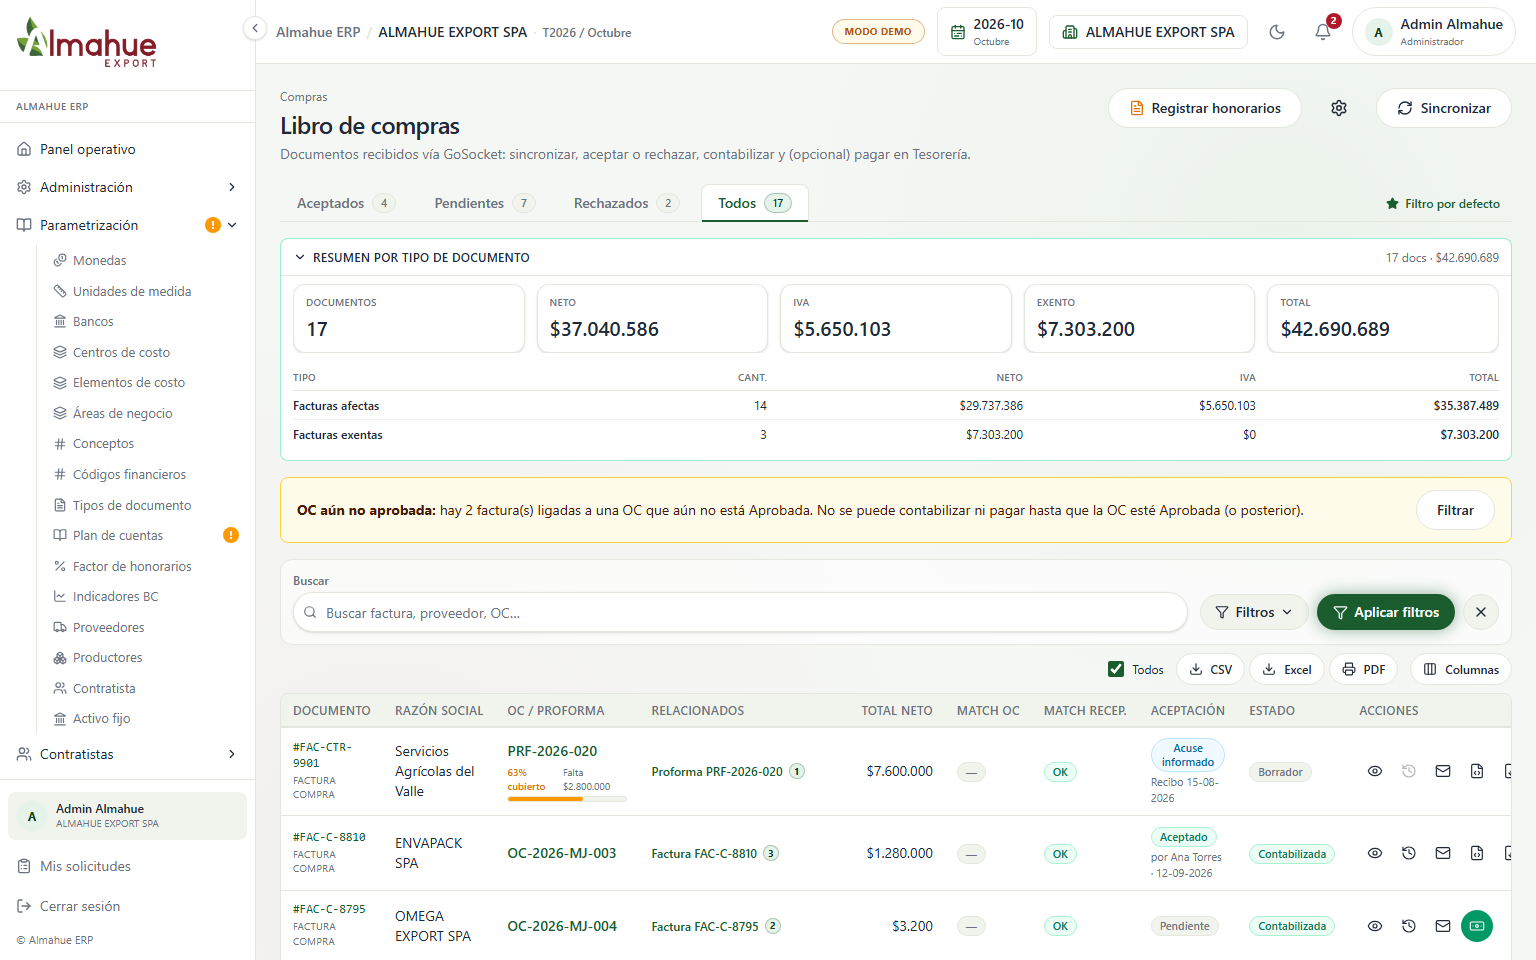
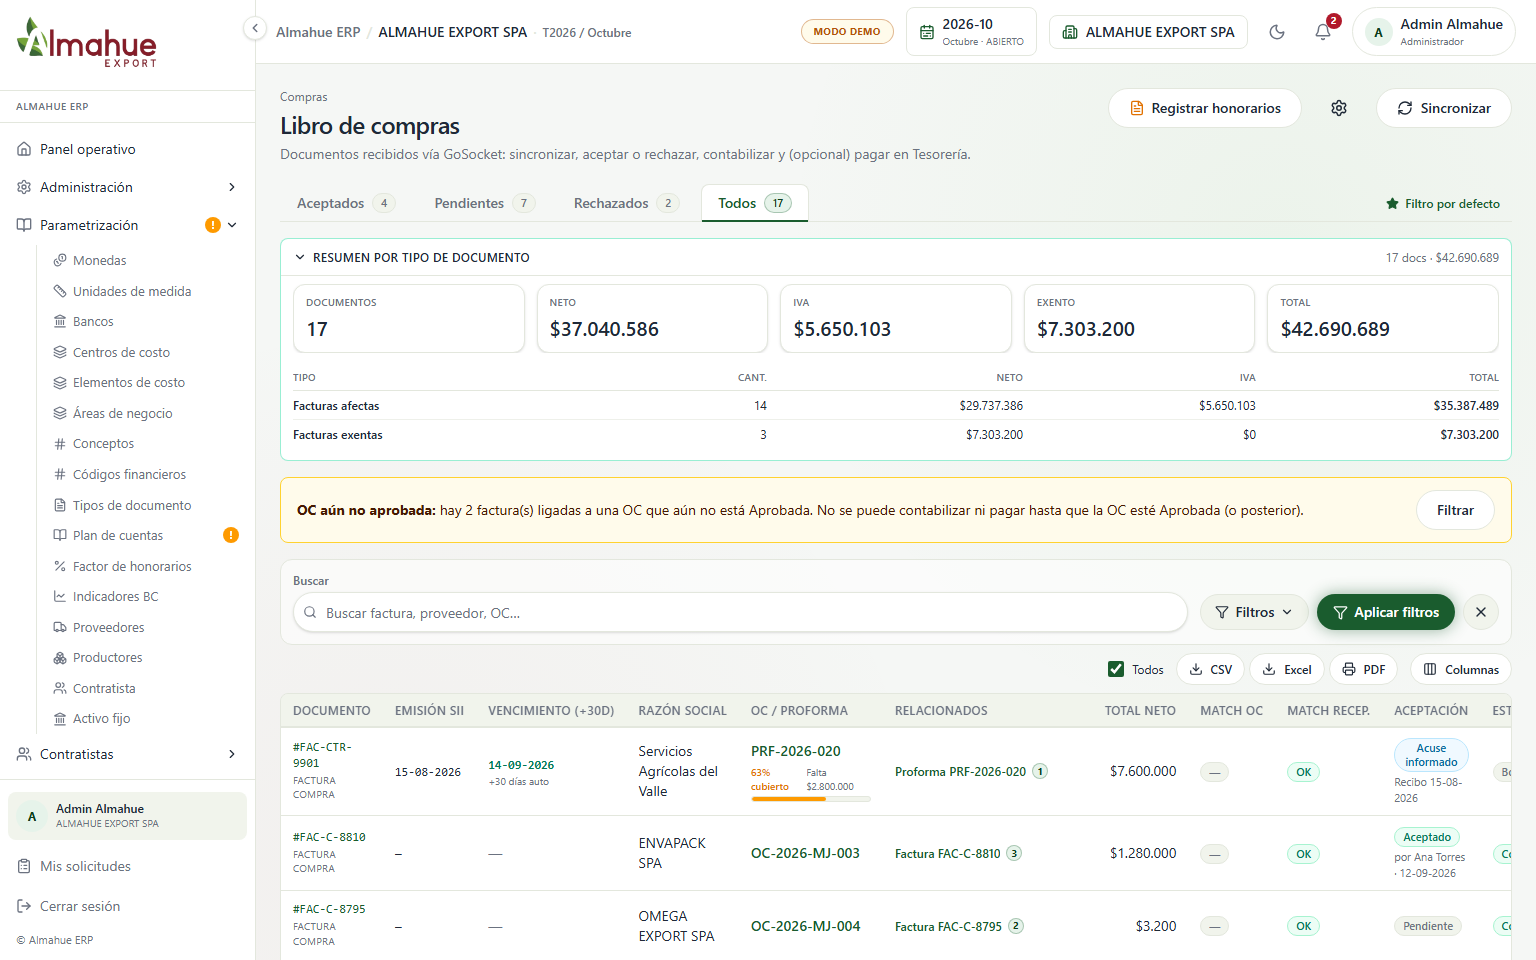
fix(recorrido): actualizar paso 2.9 con columnas Emisión SII y Vencimiento (+30d) en Libro de Compras y reubicar pines

diff --git a/docs/sesiones/compras-mejoras-modulo2-2026-10-30/recorrido.html b/docs/sesiones/compras-mejoras-modulo2-2026-10-30/recorrido.html
@@ -571,8 +571,8 @@
         titulo: "Fecha de Vencimiento Automática (+30 días desde Emisión SII) (Punto 3 MJ)",
         img: "img/step-2-9-compras-libro-vencimientos.png",
         pins: [
-          { x: 55, y: 40, label: "Columna 'Fecha Emisión SII' del documento oficial" },
-          { x: 68, y: 40, label: "Columna 'Vencimiento' calculada a +30 días por defecto" }
+          { x: 28, y: 76, label: "Columna 'Emisión SII' del documento oficial registrado en el SII" },
+          { x: 36, y: 76, label: "Columna 'Vencimiento (+30d)' calculada automáticamente a +30 días por defecto" }
         ],
         regla: "Calcula automáticamente la fecha de vencimiento sumando 30 días a la fecha de emisión electrónica del DTE registrada en el SII, permitiendo ajuste manual para condiciones especiales acordadas.",
         origen: "Correo María Jesús (29/10/2026, Punto 3) · Estándar comercial de proveedores",
